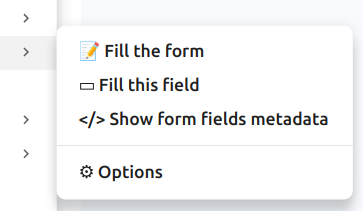
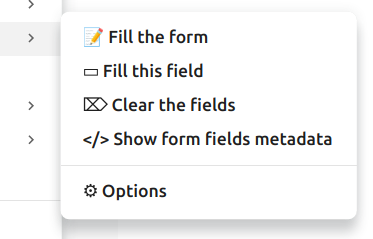
added new menu and screenshot for it

diff --git a/ext/background.js b/ext/background.js
@@ -26,6 +26,12 @@ chrome.runtime.onInstalled.addListener(function() {
     });
 
     chrome.contextMenus.create({
+        id: "clearallfield",
+        title: "⌦ Clear the fields",
+        contexts: ["editable"]
+    });
+
+    chrome.contextMenus.create({
         id: "showfieldmetadata",
         title: "</> Show form fields metadata",
         contexts: ["editable"]
@@ -55,12 +61,13 @@ chrome.contextMenus.onClicked.addListener(function(info, tab) {
             chrome.tabs.sendMessage(tab.id, {action: "getFormFields"}, async function(response) {
                 if (response && response.formDetails) {
                     try {
-                        let obj = JSON.parse(response.formDetails);
+                        let obj = JSON.parse(response?.formDetails || '[]');
                         if(obj && obj.length > 0){
                             await processForm(obj, tab.id);
                         }
                     } catch (error) {
                         console.error(error);
+                        console.log(response.formDetails);
                     }
                 }
             });
@@ -81,6 +88,9 @@ chrome.contextMenus.onClicked.addListener(function(info, tab) {
             break;
         case "showfieldmetadata":
             chrome.tabs.sendMessage(tab.id, {action: "showFieldsMetadata"});
+            break;
+        case "clearallfield":
+            chrome.tabs.sendMessage(tab.id, {action: "clearAllFields"});
             break;
         case "openOptions":
             chrome.runtime.openOptionsPage(() => {
@@ -222,7 +232,6 @@ async function fetchAndBuildEmbeddingsAndBestMatch(value) {
         }
     }
 
-    console.log("Combined data:", responses);
     return getBestMatch(value, responses);
 }
 
@@ -241,7 +250,6 @@ function getBestMatch(value, embeddings){
 
     let closest = Object.keys(similarities).reduce((a, b) => similarities[a] > similarities[b] ? a : b);
 
-    console.log(`The closest element to ${value} is '${closest}' with a cosine similarity of ${similarities[closest]}`);
     return closest;
 }
 

diff --git a/ext/content.js b/ext/content.js
@@ -1,25 +1,3 @@
-/* // Create a script element
-const script = document.createElement('script');
-script.src = chrome.runtime.getURL('form-filler-element.js');
-script.type = 'module';
-document.documentElement.appendChild(script);
-
-// Optionally, wait for the module to load
-script.onload = () => {
-  console.log('Custom element module loaded');
-  // You can safely add the custom element to the document after the module has loaded
-  document.body.appendChild(document.createElement('form-filler'));
-};
-
-// Handle any errors that occur while loading the module
-script.onerror = (error) => {
-  console.error('Error loading the module script:', error);
-}; */
-
-// Variable to hold the last clicked element
-let field = null;
-
-// Listen for right-clicks and save the target element
 document.addEventListener('contextmenu', function(event) {
     field = event.target;
 }, true);
@@ -50,6 +28,9 @@ chrome.runtime.onMessage.addListener(function(request, sender, sendResponse) {
       break;
     case "showFieldsMetadata":
       showFieldsMetadata(field);
+      break;
+    case "clearAllFields":
+      clearAllFields(field);
       break;
     default:
       break;
@@ -226,16 +207,17 @@ function showFormFieldHint(field) {
       if(h.parentNode){  h.parentNode.removeChild(h);  }
     })
   });
-
-/*   setTimeout(() => {
-      if (hint.parentNode) {
-          hint.parentNode.removeChild(hint);
-      }
-  }, 5000); */
 }
 
 function showFieldsMetadata(field){
   const inputs = getInputFormFields(field);
   inputs.forEach(el => showFormFieldHint(el));
   showMessage('Click any hint to remove them.');
+}
+
+function clearAllFields(field){
+  const inputs = getInputFormFields(field);
+  inputs.forEach(el => {
+    el.value = '';
+  });
 }
